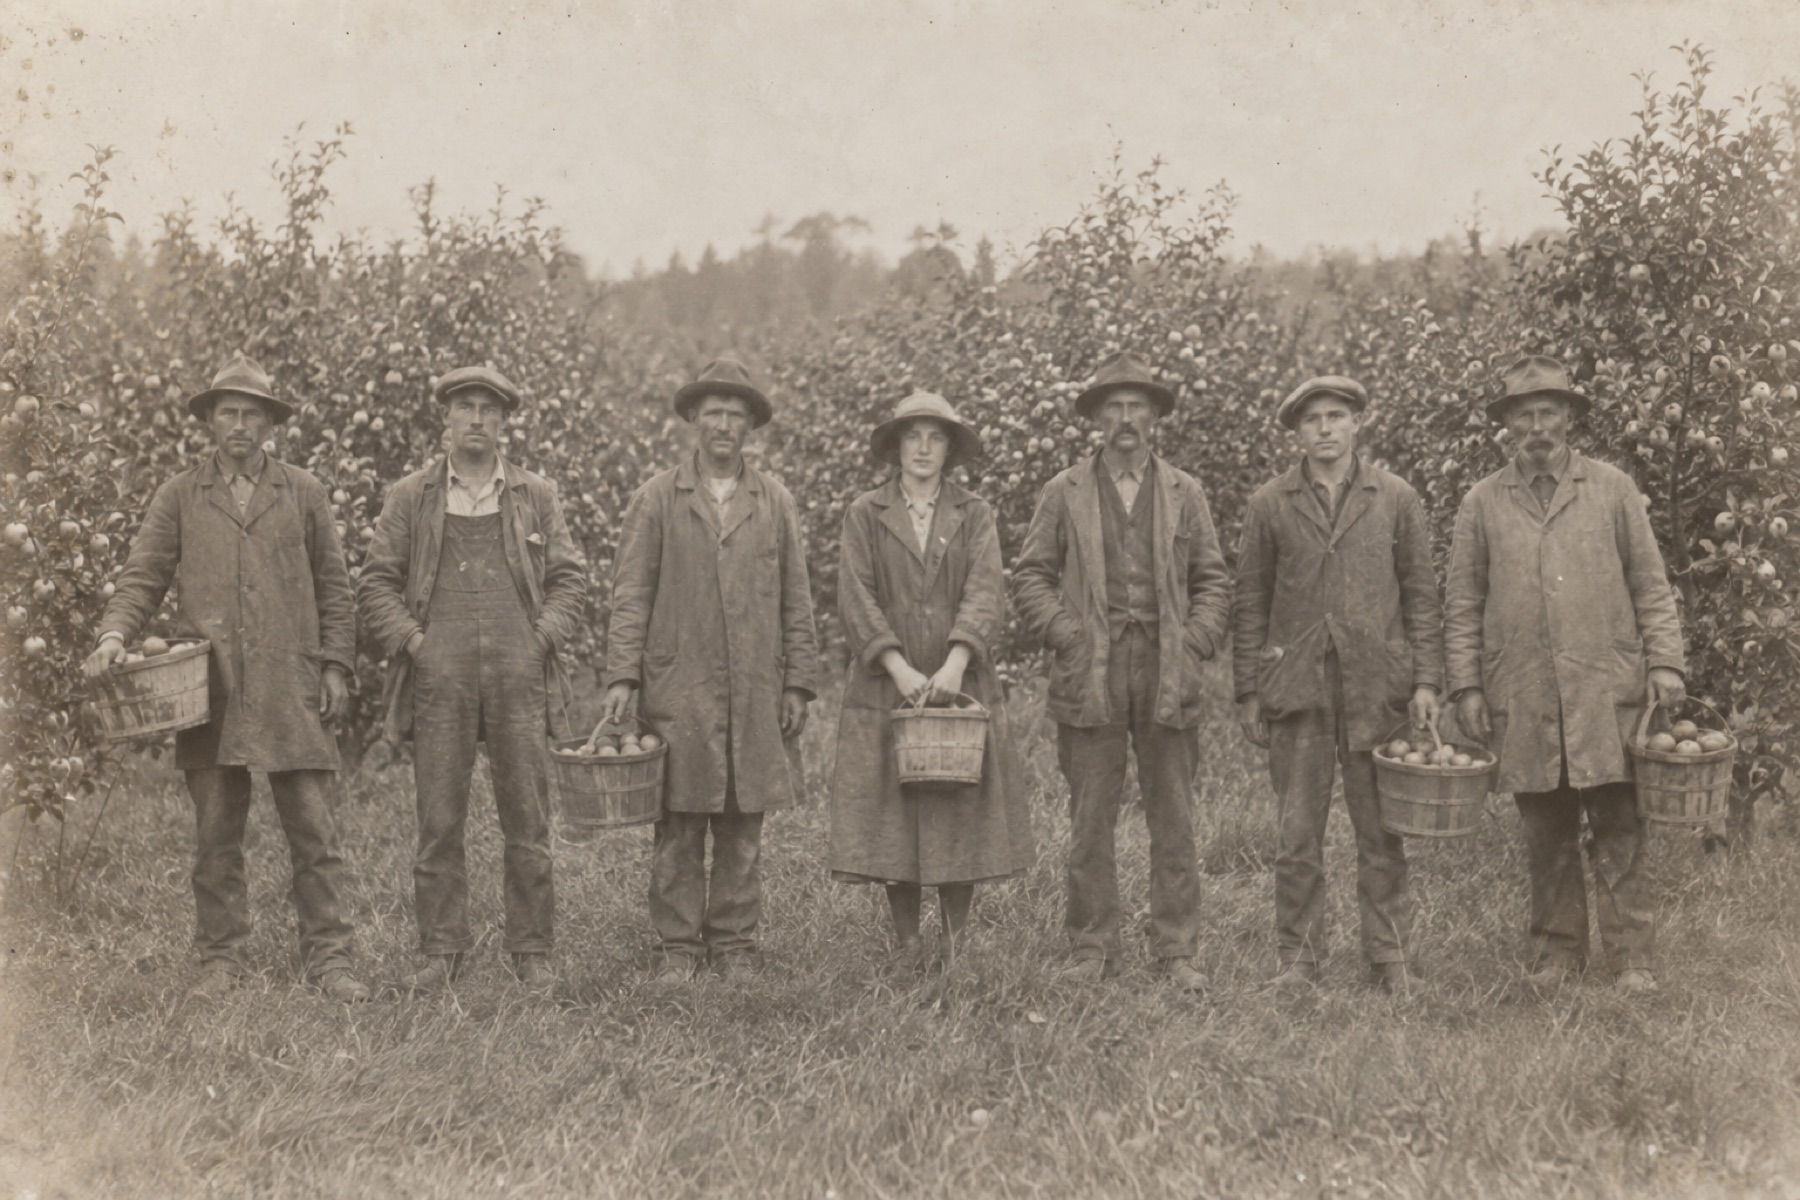
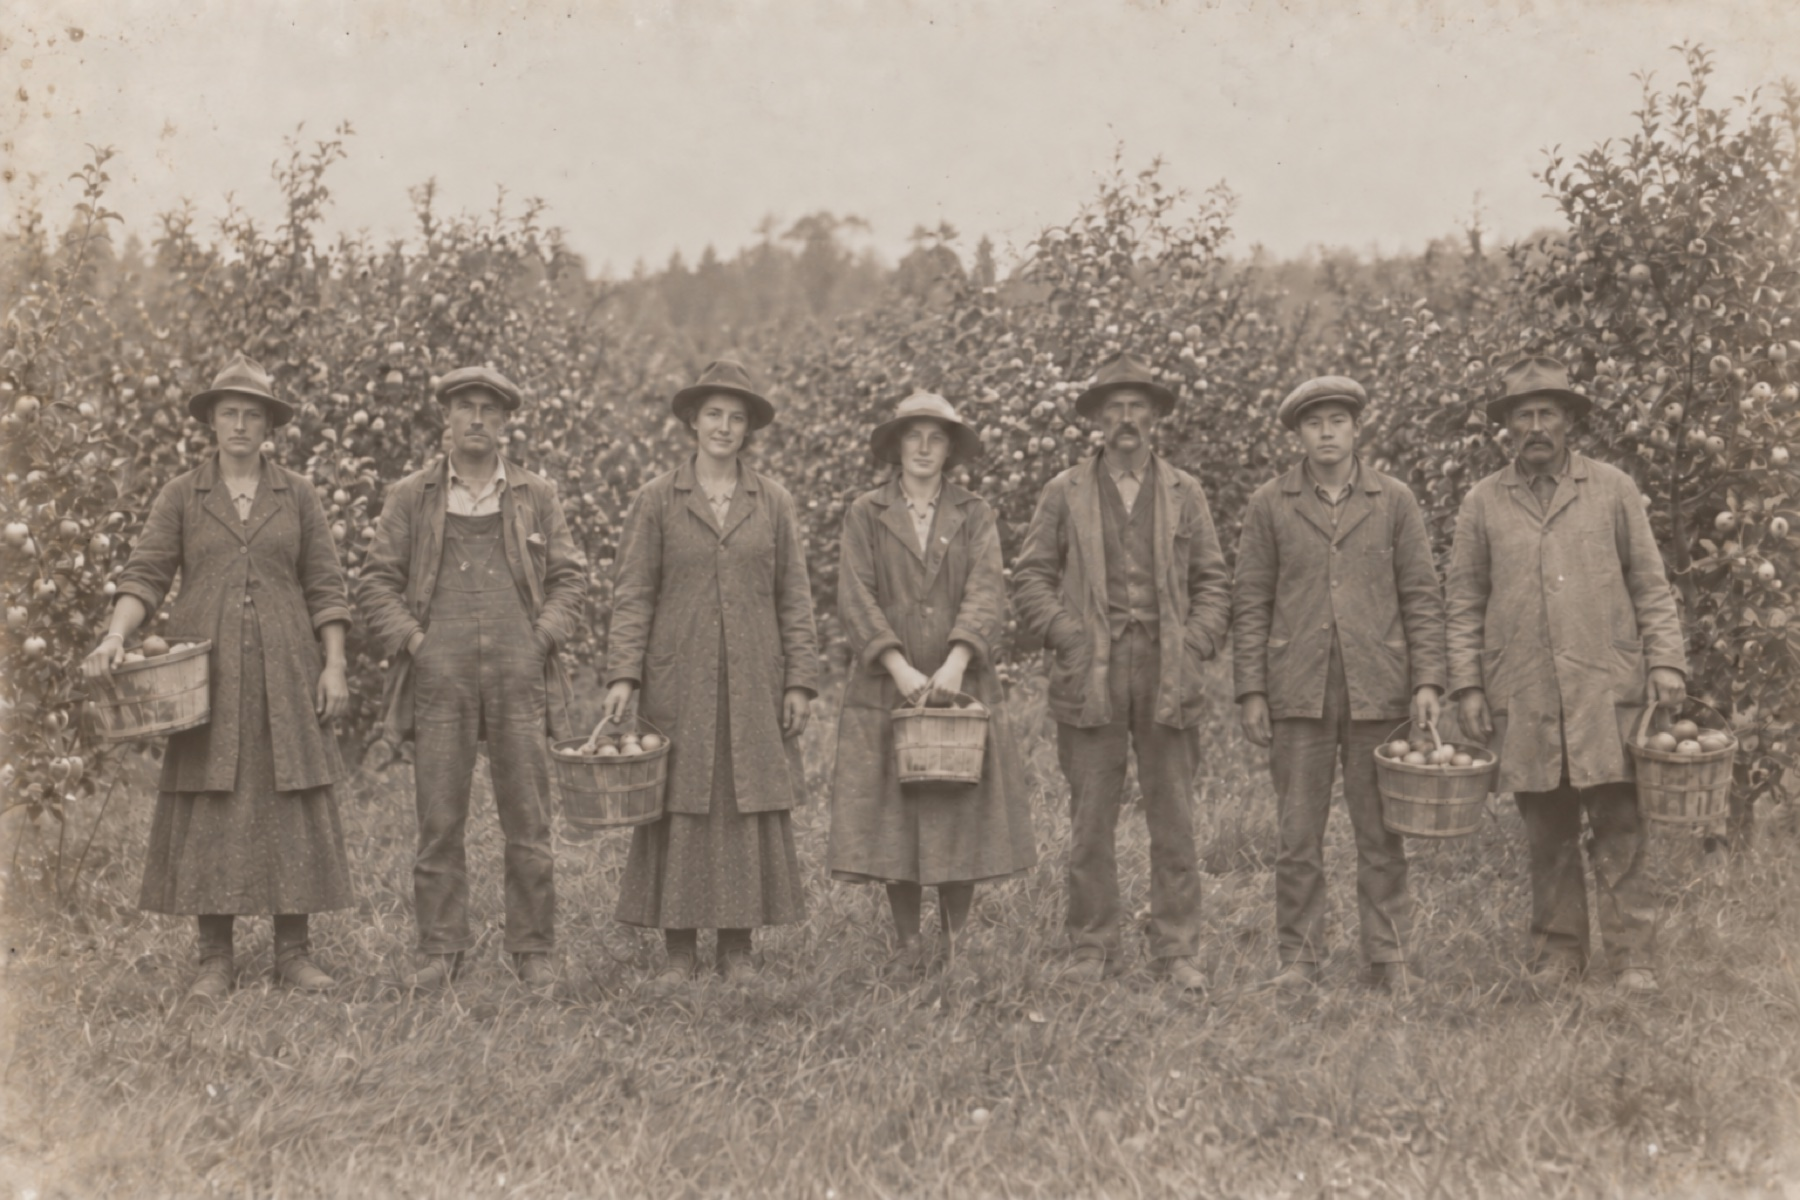
Seven in the photograph: three women and four men

diff --git a/assembly/index.html b/assembly/index.html
@@ -45,7 +45,7 @@
     <figure class="print" style="margin:0">
       <div class="photo" aria-label="A faded photograph of seven orchard workers standing in a row. Every face has been scratched out.">
         <!-- Original generated photograph; face centers measured against this 3:2 image. -->
-        <img data-photo src="assembly.jpg" alt="" hidden>
+        <img data-photo src="assembly.jpg?v=2" alt="" hidden>
         <canvas data-fallback aria-hidden="true"></canvas>
         <svg viewBox="0 0 300 200" aria-hidden="true" data-overlay></svg>
       </div>
